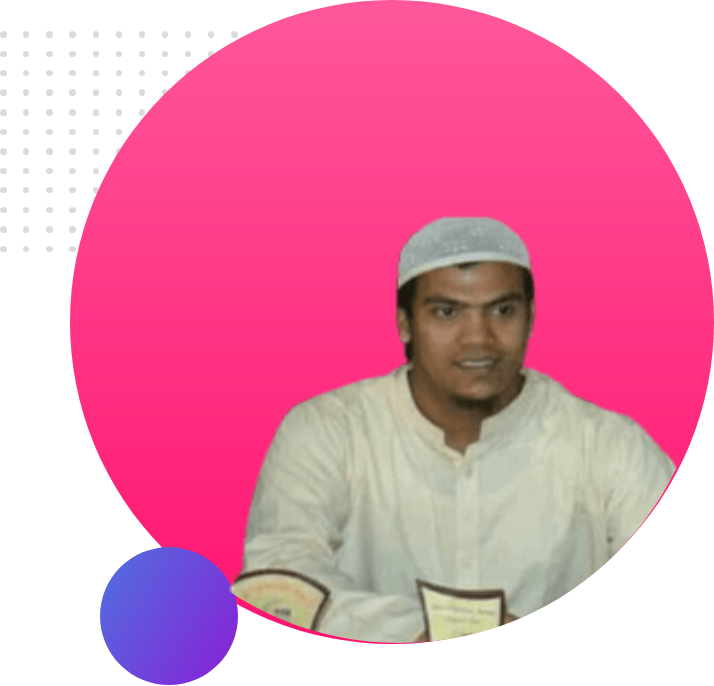
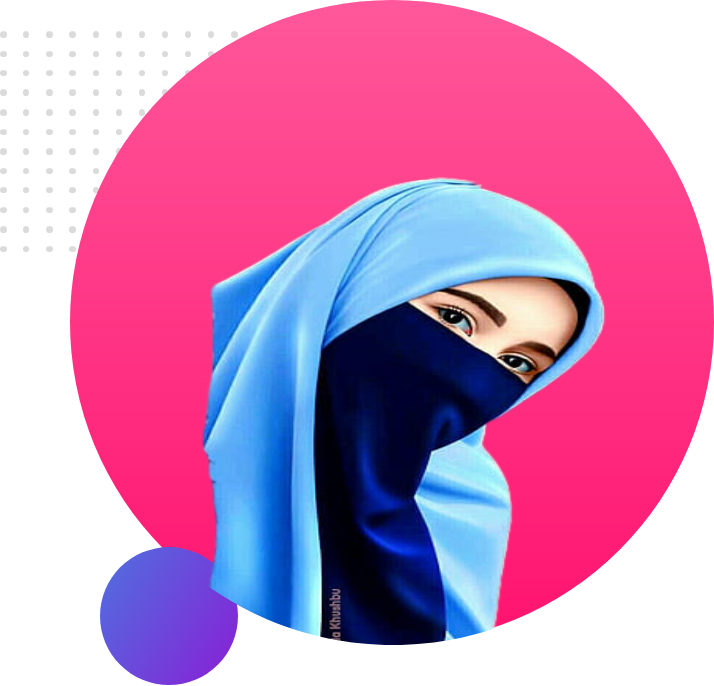
header part send

diff --git a/index.html b/index.html
@@ -1,15 +1,30 @@
 <!DOCTYPE html>
 <html lang="en">
-    
+
 <head>
     <meta charset="UTF-8">
     <meta http-equiv="X-UA-Compatible" content="IE=edge">
     <meta name="viewport" content="width=device-width, initial-scale=1.0">
     <title>professional portfolio</title>
+    <link rel="stylesheet" href="style.css">
+    <link rel="preconnect" href="https://fonts.googleapis.com">
+    <link rel="preconnect" href="https://fonts.gstatic.com" crossorigin>
+    <link href="https://fonts.googleapis.com/css2?family=Poppins&display=swap" rel="stylesheet">
 </head>
-
+ 
 <body>
-    
+   <section id="header">
+       <div class="header-part">
+        <h1>Welcome to</h1>
+        <h1><span class="text-color">Khan Raki</span> World!</h1>
+        <h2>Full Stack Web Development With Javascript</h2>
+        <p>Lorem, ipsum dolor sit amet consectetur adipisicing elit. Aliquam rerum corrupti reiciendis veritatis necessitatibus facere, illum repellendus soluta iste dolorem, a id consequuntur voluptate enim doloremque adipisci porro illo magnam ab ad ipsam. Ex vitae rerum repellendus, animi harum hic rem ipsum molestiae possimus repellat corporis asperiores eligendi cupiditate id libero a, nulla in eaque quos nihil quas ducimus esse porro magni. Quod quia repudiandae ut in fugit at. Fugiat?</p>
+        <a class="link-color" href="https://linkedin.com">Hire me</a>
+       </div>
+       <div class="header-part">
+           <img src="images/header-bg.png" alt="header photo">
+       </div>
+   </section>
 </body>
 
 </html>

diff --git a/style.css b/style.css
@@ -1,0 +1,29 @@
+body{
+    font-family: 'Poppins', sans-serif;
+    margin: 0;
+}
+
+#header{
+    display: flex;
+    background-image: url(images/top-banner.png);
+    background-repeat: no-repeat;
+}
+.header-part{
+    width:50%;
+    padding-left: 5%;
+}
+.text-color{
+    color: orange;
+}
+.link-color{
+    padding: 10px 40px;
+    text-decoration: none;
+    background-image: linear-gradient(red,yellow);
+    border-radius: 10px;
+}
+h1{
+    font-size: 50px;
+}
+.header-part img{
+    width: 100%;
+}
